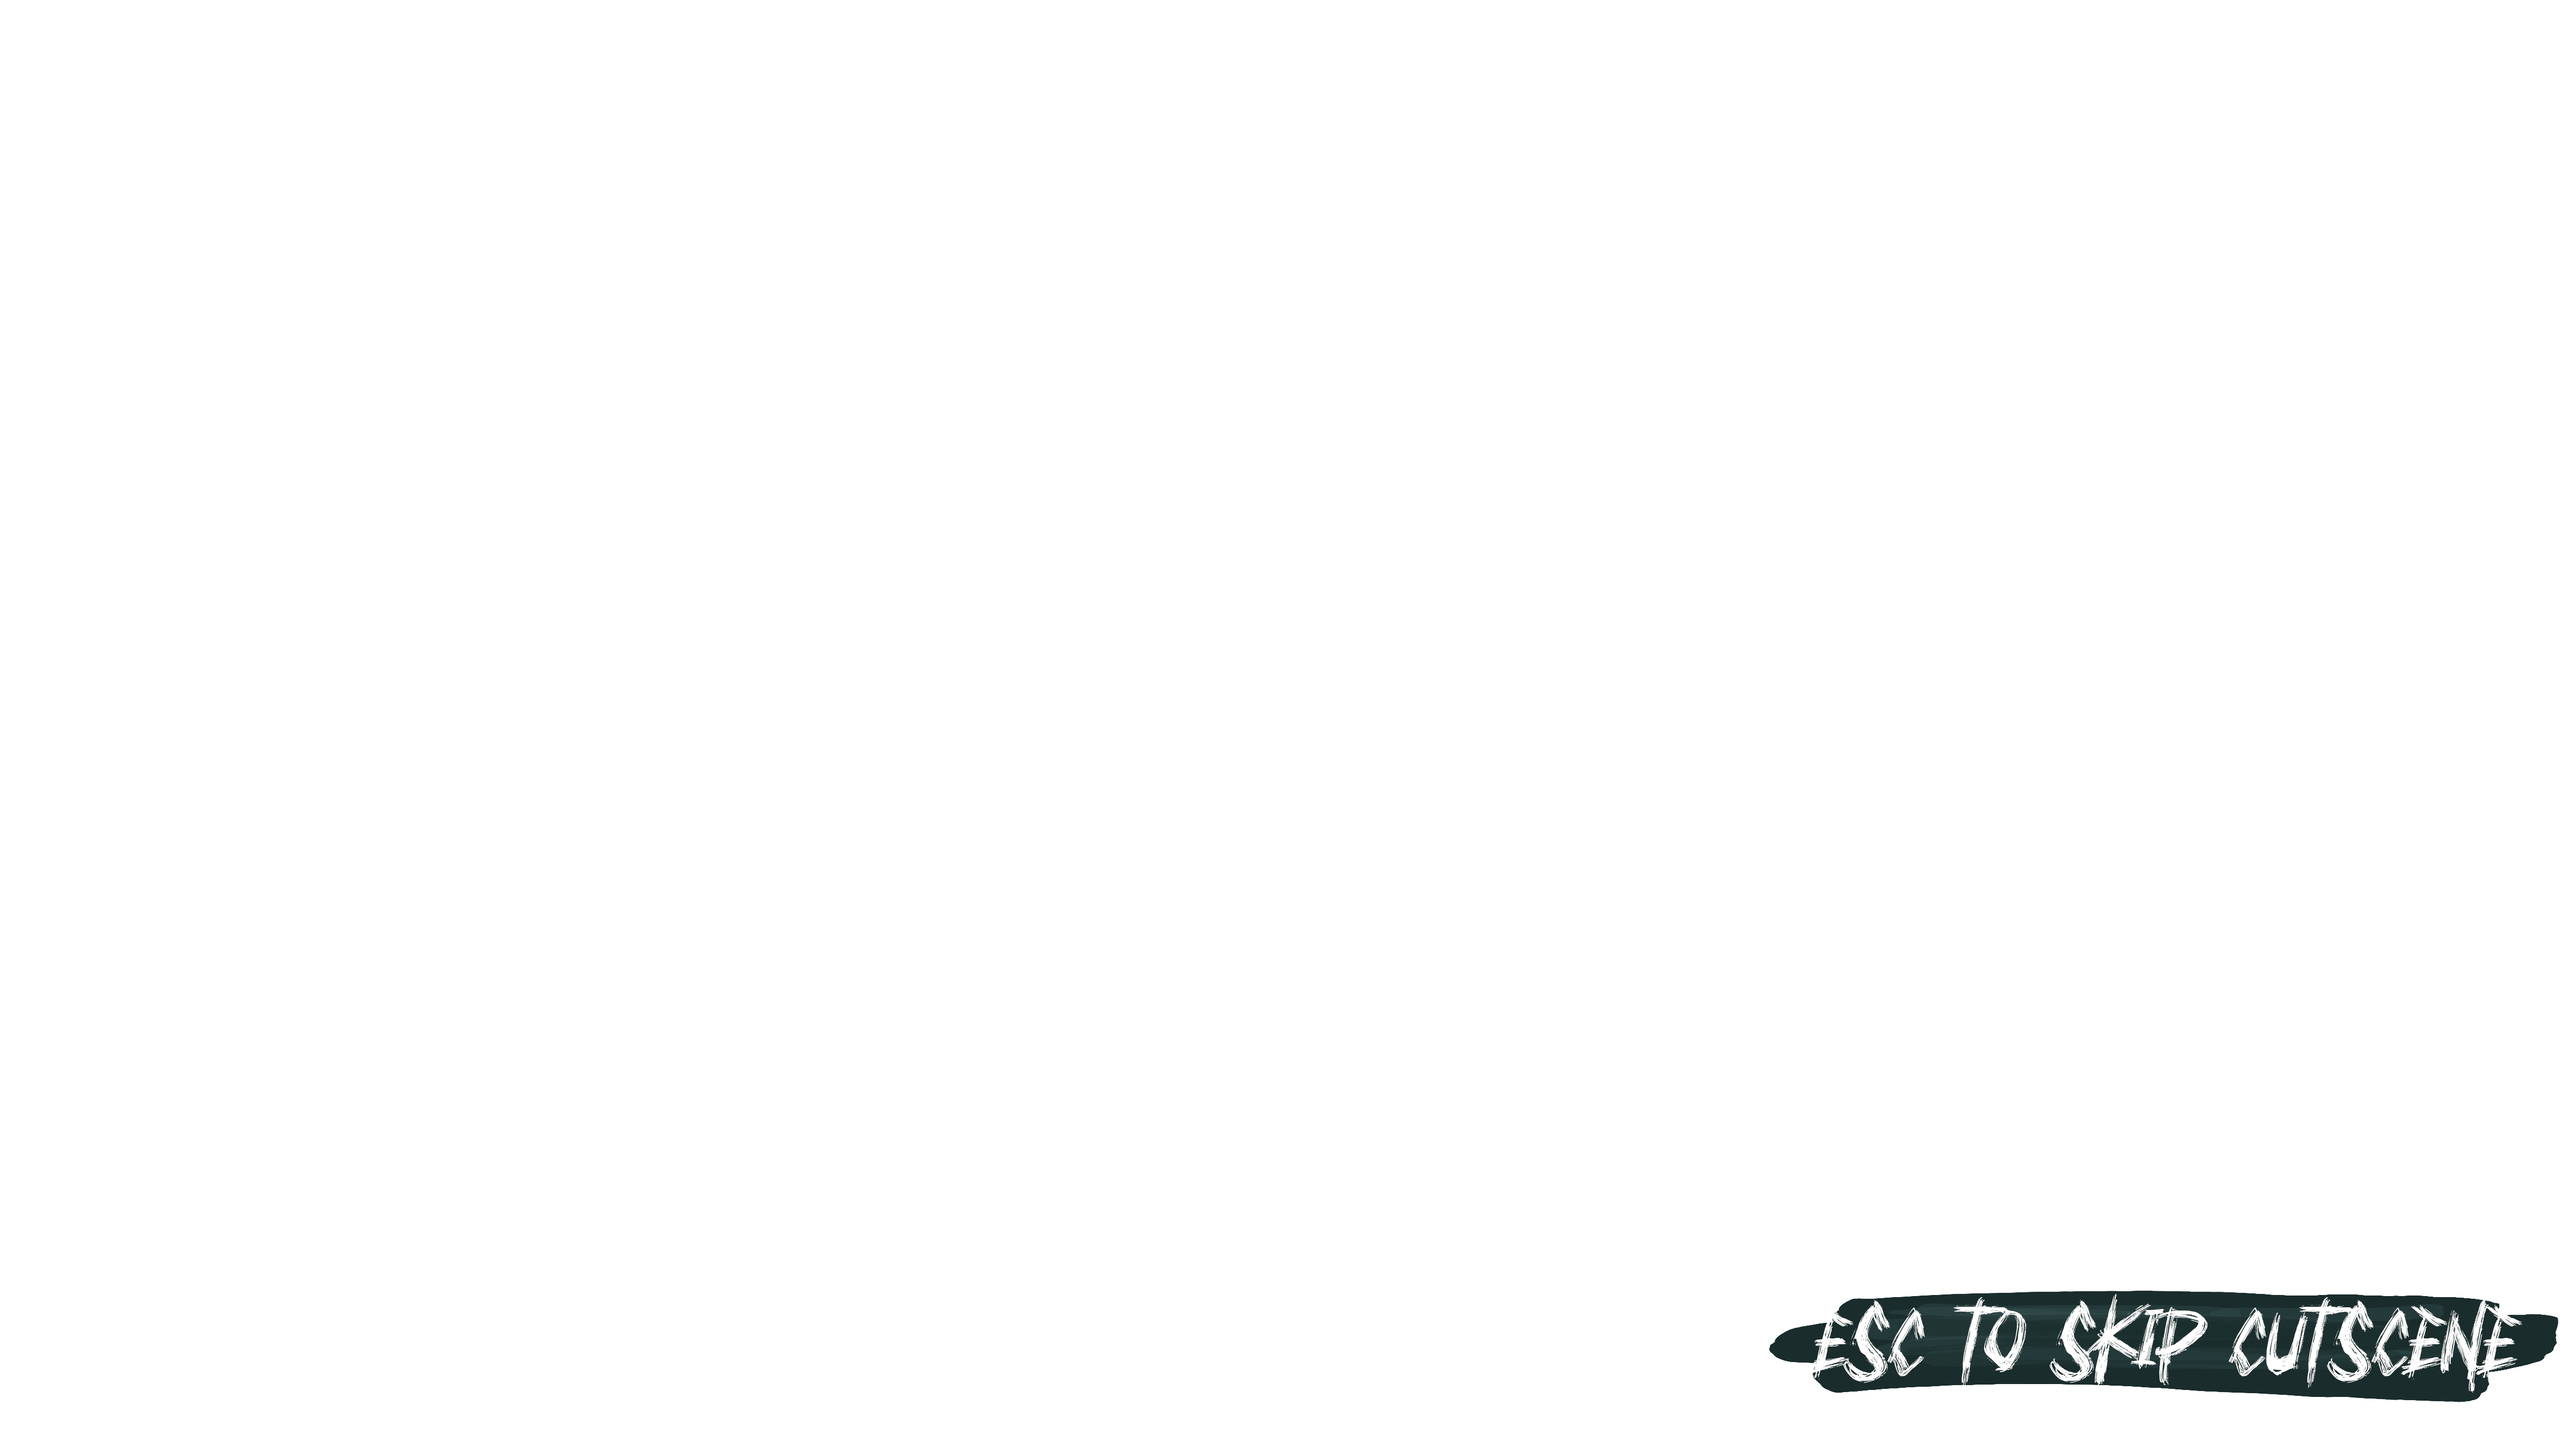
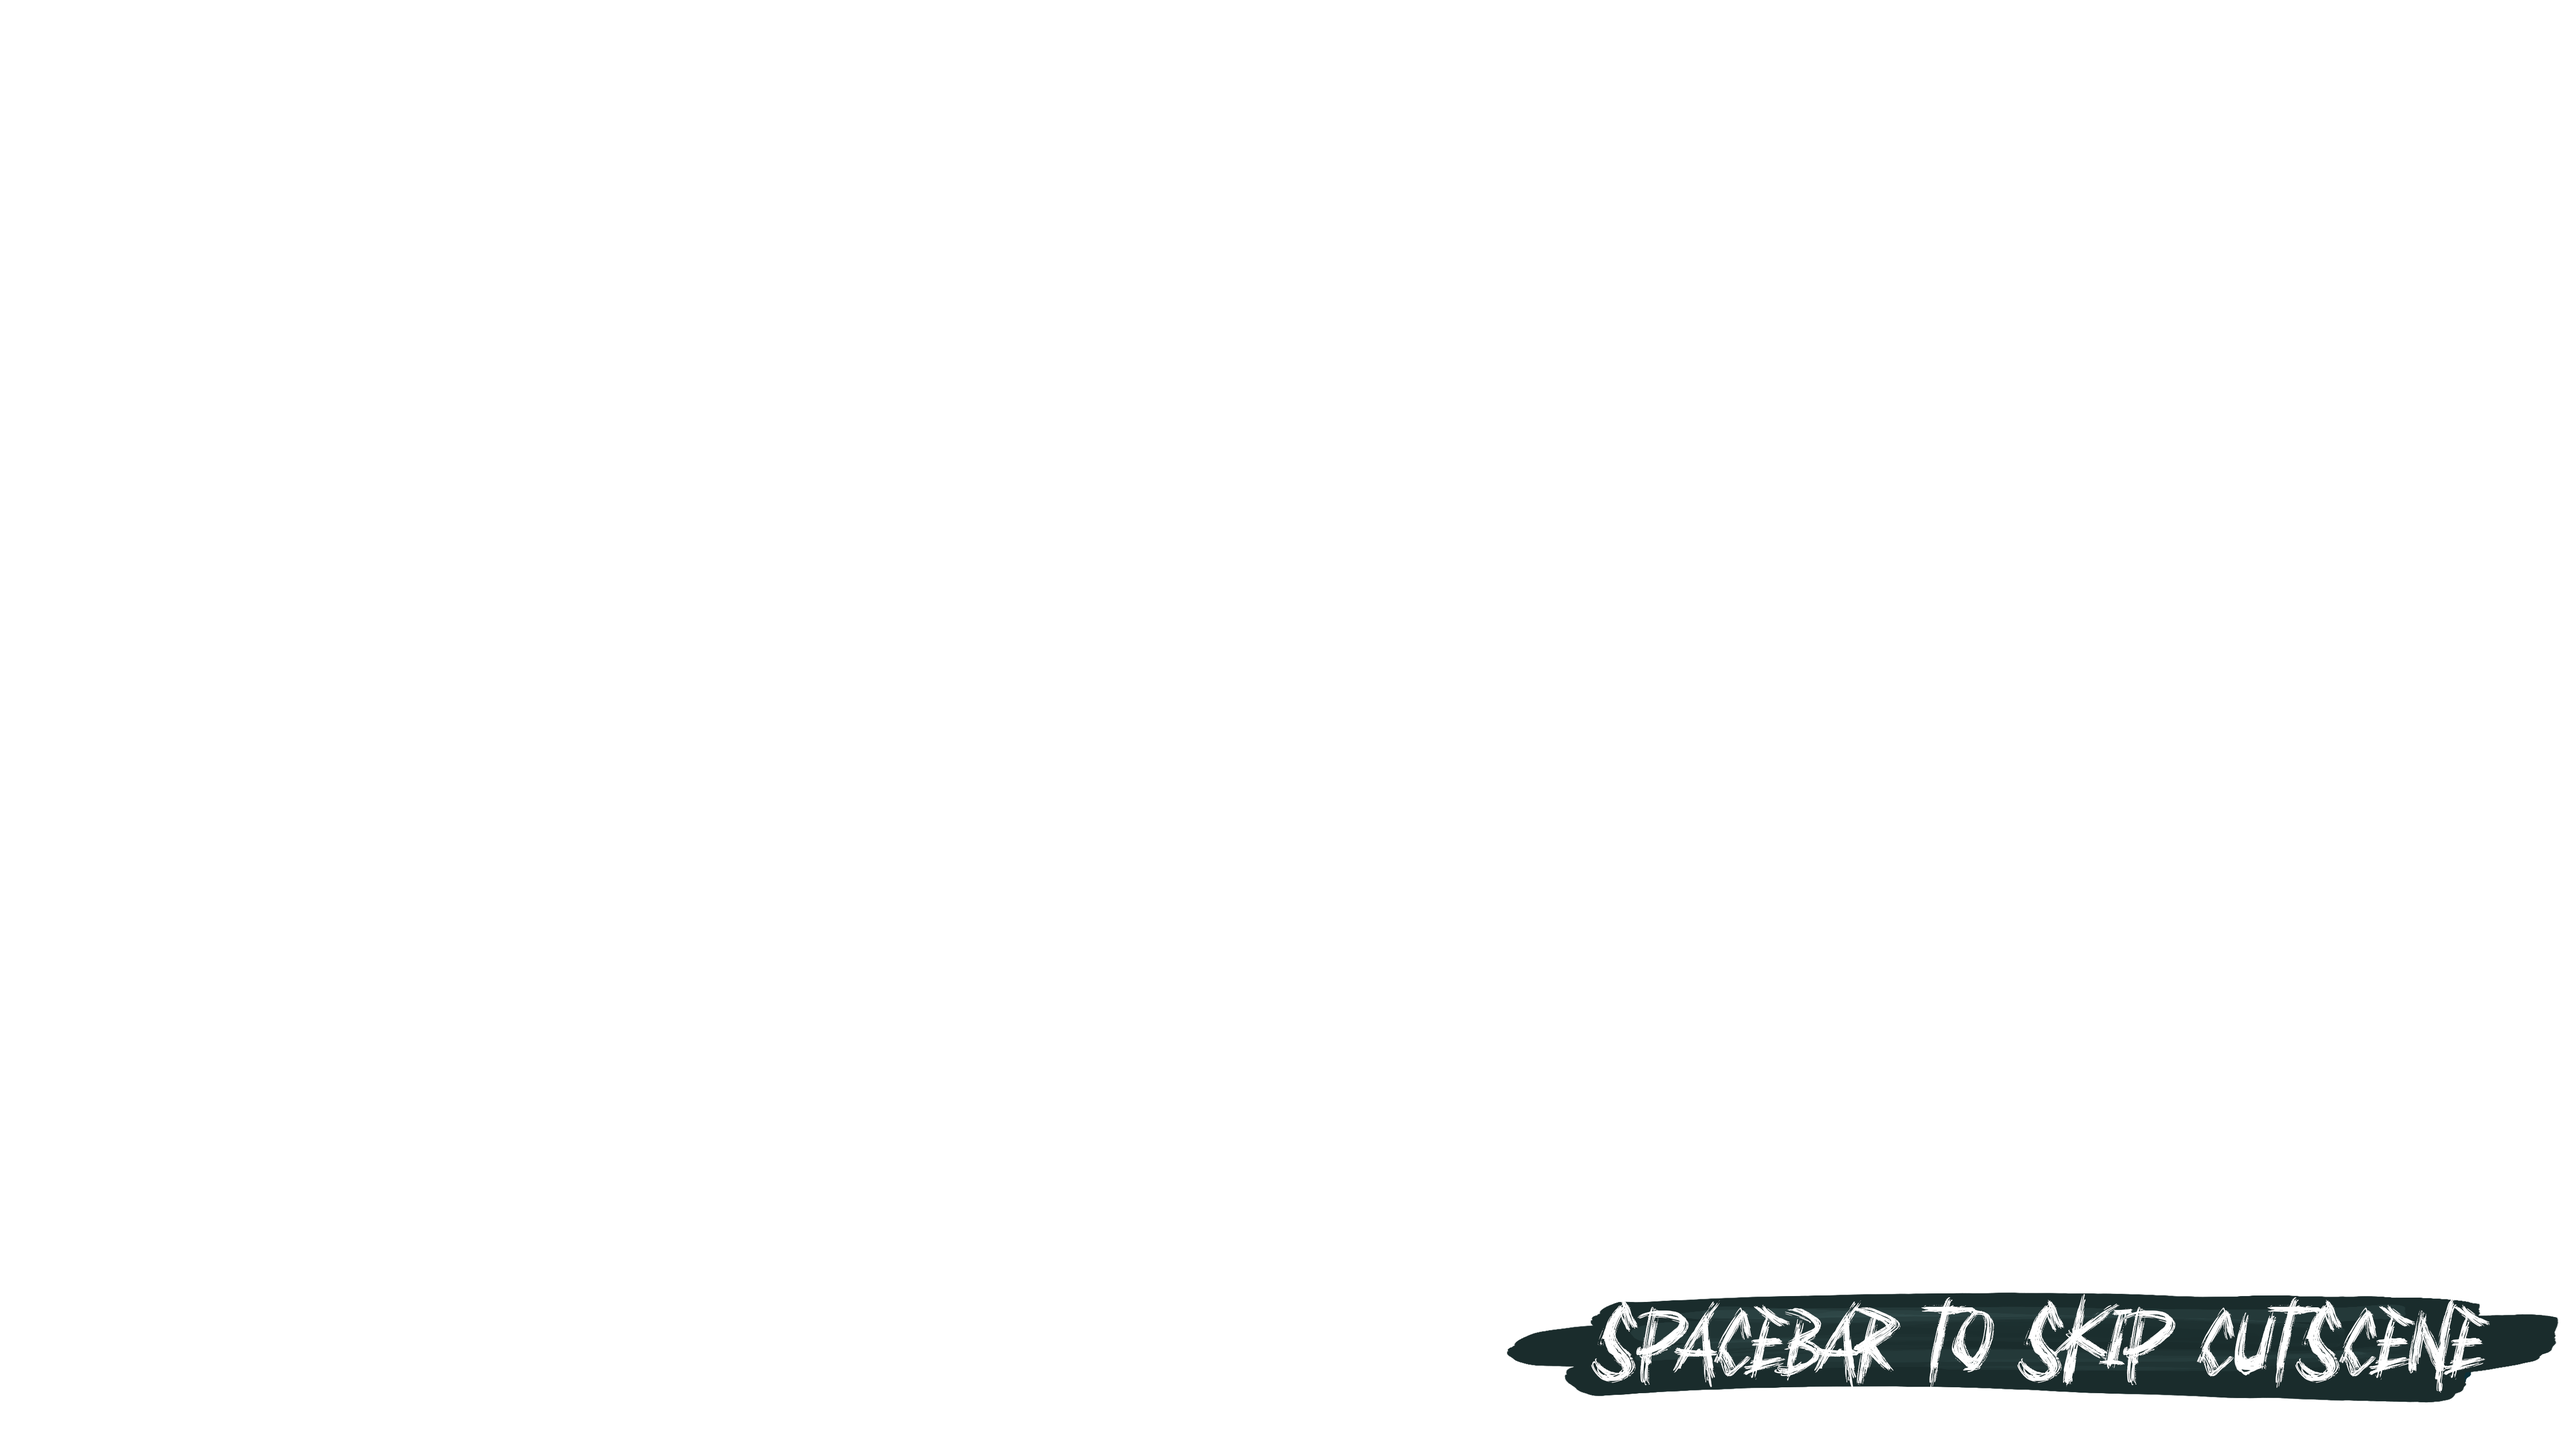
intro cutscene is space

Changed region(s): [[0.5938, 0.8711, 1.0, 0.9644]]

diff --git a/Alone-Not-Lonely/Assets/Art_Assets/Cutscenes/CutsceneSceneAdvance.cs b/Alone-Not-Lonely/Assets/Art_Assets/Cutscenes/CutsceneSceneAdvance.cs
@@ -10,9 +10,10 @@ public class CutsceneSceneAdvance : MonoBehaviour
     private VideoPlayer video;
     public string SceneName;
     public DefaultControls _actionMap;
+    public GameObject UI;
 
     private void OnEnable() {
-        _actionMap.Platforming.Pause.performed += EndReached;
+        _actionMap.Platforming.Jump.performed += EndReached;
     }
     private void Awake() {
         _actionMap = new DefaultControls();
@@ -31,19 +32,23 @@ public class CutsceneSceneAdvance : MonoBehaviour
 
     void EndReached(InputAction.CallbackContext context)
     {
-        _actionMap.Platforming.Pause.performed -= EndReached;
+        _actionMap.Platforming.Jump.performed -= EndReached;
         //Instantiate(playerCameraRig, new Vector3(10.9f, 3.33f, -3.8f), Quaternion.identity);
         Debug.Log("Skipped Cutscene");
+        video.gameObject.SetActive(false);
+        UI.SetActive(false);
         SceneManager.LoadScene(SceneName);
     }
     void EndReached(VideoPlayer vp)
     {
-        _actionMap.Platforming.Pause.performed -= EndReached;
+        _actionMap.Platforming.Jump.performed -= EndReached;
         //Instantiate(playerCameraRig, new Vector3(10.9f, 3.33f, -3.8f), Quaternion.identity);
         Debug.Log("Skipped Cutscene");
+        video.gameObject.SetActive(false);
+        UI.SetActive(false);
         SceneManager.LoadScene(SceneName);
     }
     private void OnDisable() {
-        _actionMap.Platforming.Pause.performed -= endCutscene => EndReached(video);
+        _actionMap.Platforming.Jump.performed -= endCutscene => EndReached(video);
     }
 }
